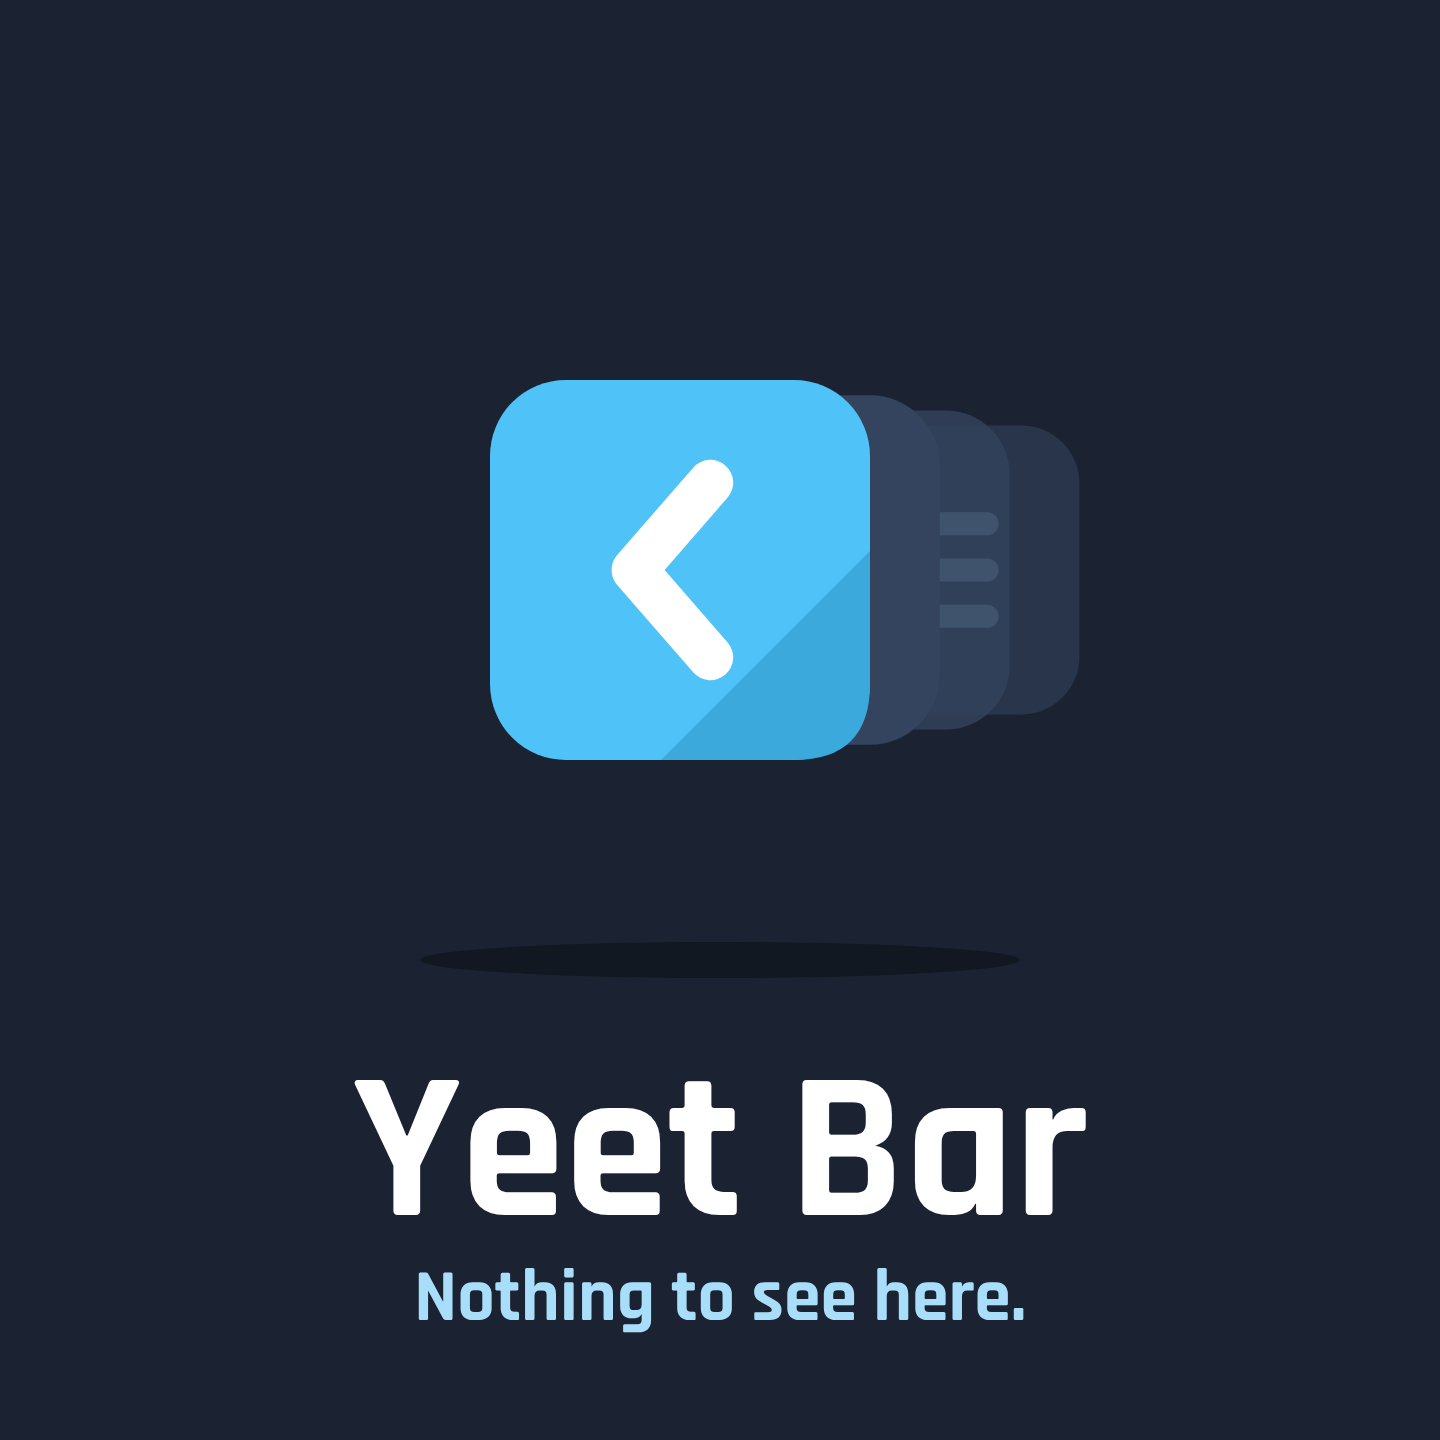
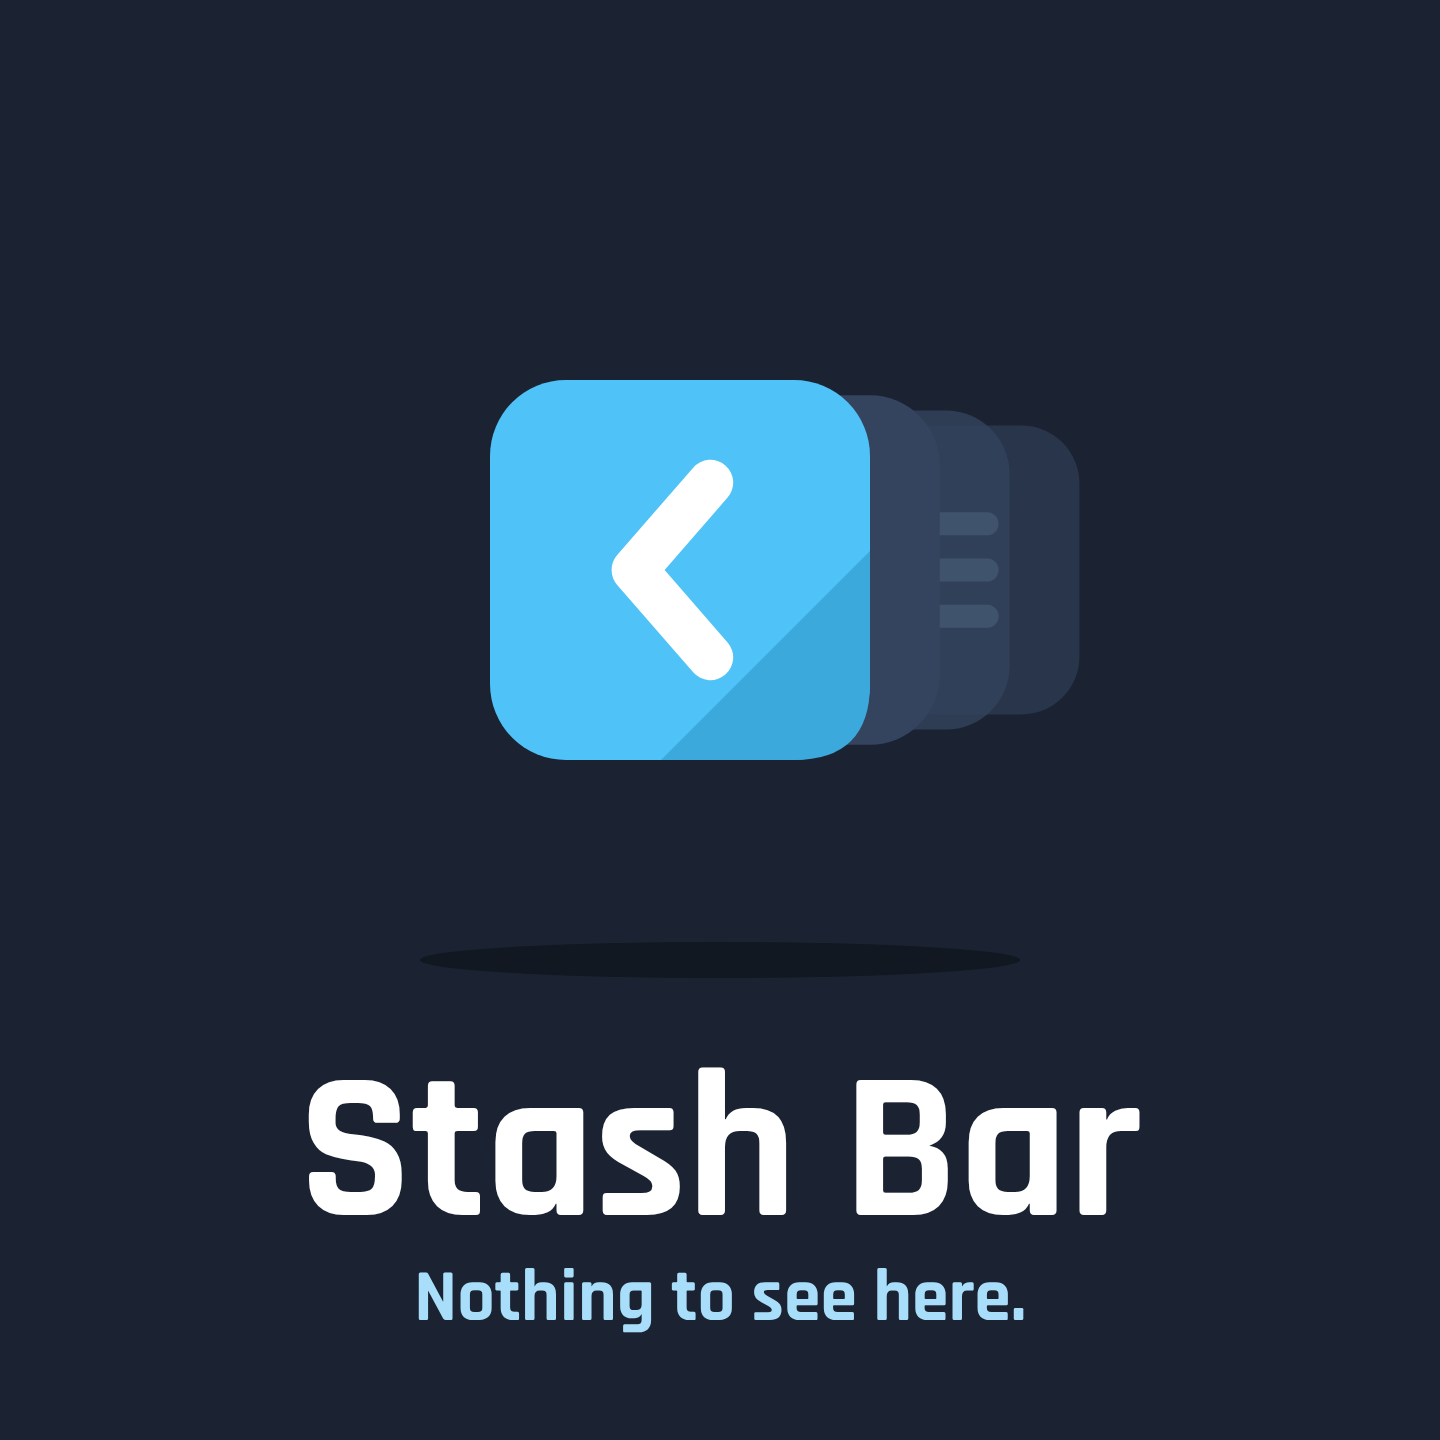
Rename to Stash Bar (1.0.1)

Changed region(s): [[0.2188, 0.7188, 0.8125, 0.8438]]

diff --git a/UI/src/mods/collapse/bindings.ts b/UI/src/mods/collapse/bindings.ts
@@ -12,15 +12,15 @@ export const collapsed$ = {
     topRight: bindValue<boolean>(GROUP, "collapsedTopRight", false),
 };
 
-// Options > Yeet Bar: which corners get an arrow at all.
+// Options > Stash Bar: which corners get an arrow at all.
 export const enabled$ = {
     topLeft: bindValue<boolean>(GROUP, "tidyTopLeft", true),
     topRight: bindValue<boolean>(GROUP, "tidyTopRight", false),
 };
 
-// Options > Yeet Bar > Slide animation.
+// Options > Stash Bar > Slide animation.
 export const animate$ = bindValue<boolean>(GROUP, "animate", true);
-// Options > Yeet Bar > Slide speed, in milliseconds (250, 500 or 1000).
+// Options > Stash Bar > Slide speed, in milliseconds (250, 500 or 1000).
 export const slideMs$ = bindValue<number>(GROUP, "slideMs", 500);
 
 export const setCollapsed = (area: AreaId, value: boolean) => trigger(GROUP, "setAreaCollapsed", area, value);

diff --git a/UI/src/mods/collapse/row-slide.ts b/UI/src/mods/collapse/row-slide.ts
@@ -11,7 +11,7 @@
 // Everything here only changes how buttons look on screen. Nothing is saved, and
 // every change is undone when the row opens again, so other mods are left as they were.
 
-// How long a slide takes, from Options > Yeet Bar > Slide speed (0.25, 0.5 or 1 second).
+// How long a slide takes, from Options > Stash Bar > Slide speed (0.25, 0.5 or 1 second).
 // Shared by every area. The arrows' swivel uses the same time (see collapse-toggle.tsx).
 let slideMs = 500;
 let transition = transitionFor(slideMs);

diff --git a/UI/src/mods/collapse/areas.ts b/UI/src/mods/collapse/areas.ts
@@ -1,7 +1,7 @@
 import { AppendHookTargets } from "cs2/modding";
 import { Axis, Placement } from "./row-slide";
 
-// The corners Yeet Bar can tidy. Each is a row the game makes for mod buttons.
+// The corners Stash Bar can tidy. Each is a row the game makes for mod buttons.
 // Checked in the game's own UI code (Cities2_Data/Content/Game/UI/index.js), 2026-11-18.
 //
 // "gameClasses" are the starts of the style names of the game's own buttons that share

diff --git a/UI/src/index.tsx b/UI/src/index.tsx
@@ -4,7 +4,7 @@ import { arrowFor } from "mods/collapse/collapse-toggle";
 
 const register: ModRegistrar = (moduleRegistry) => {
     // One arrow per corner (top-left and top-right). Each shows only when switched on
-    // in Options > Yeet Bar. Nothing else on screen is touched.
+    // in Options > Stash Bar. Nothing else on screen is touched.
     for (const area of AREAS) moduleRegistry.append(area.slot, arrowFor(area));
 };
 

diff --git a/Localization/LocaleEN.cs b/Localization/LocaleEN.cs
@@ -23,7 +23,7 @@ namespace TopLeftCollapse.Localization
         {
             return new Dictionary<string, string>
             {
-                { m_Setting.GetSettingsLocaleID(), "Yeet Bar" },
+                { m_Setting.GetSettingsLocaleID(), "Stash Bar" },
                 { m_Setting.GetOptionLabelLocaleID(nameof(Setting.TidyTopLeft)), "Tidy top-left buttons" },
                 { m_Setting.GetOptionDescLocaleID(nameof(Setting.TidyTopLeft)),
                     "Adds an arrow next to the game's \"i\" button that slides the mod buttons in the top-left corner away." },
@@ -45,7 +45,7 @@ namespace TopLeftCollapse.Localization
                 { m_Setting.GetOptionGroupLocaleID(Setting.kKeybindGroup), "Keyboard shortcut" },
 
                 // Keyboard shortcut
-                { m_Setting.GetBindingMapLocaleID(), "Yeet Bar" },
+                { m_Setting.GetBindingMapLocaleID(), "Stash Bar" },
                 { m_Setting.GetBindingKeyLocaleID(Setting.kToggleActionName), "Collapse or expand the mod buttons" },
                 { m_Setting.GetOptionLabelLocaleID(nameof(Setting.ToggleKey)), "Collapse / expand" },
                 { m_Setting.GetOptionDescLocaleID(nameof(Setting.ToggleKey)),

diff --git a/README.md b/README.md
@@ -1,6 +1,6 @@
-# Yeet Bar
+# Stash Bar
 
-*Nothing to see here.* A Cities: Skylines II mod (internal ID `TopLeftCollapse`). It puts one
+*Nothing to see here.* A Cities: Skylines II mod (internal ID `TopLeftCollapse`, first published as Yeet Bar). It puts one
 arrow at the start of the top-left row of mod buttons, right after the game's own "i" button.
 
 - Click the arrow and the other mod buttons slide away behind it. Click again and they come back.
@@ -53,6 +53,7 @@ arrow at the start of the top-left row of mod buttons, right after the game's ow
 
 ## Publishing
 
-New mod, so no ModId yet. The logo is `Properties/Thumbnail.png` (keep store images under
-about 1.2 MB; `Thumbnail.svg` is its editable source). Publish once with **PublishNewMod**, put the new page number into `Properties/PublishConfiguration.xml`,
-then use **PublishNewVersion** for updates. It starts as Unlisted.
+Paradox Mods ID: **168095** (already in `Properties/PublishConfiguration.xml`). For updates, raise
+`ModVersion` there, add a ChangeLog entry, and publish with **PublishNewVersion**. Never use PublishNewMod again,
+it would make a second store page. The logo is `Properties/Thumbnail.png` (keep store images under
+about 1.2 MB; `Thumbnail.svg` is its editable source).

diff --git a/CHANGELOG.md b/CHANGELOG.md
@@ -1,6 +1,11 @@
 # Changelog
 
-## 1.0.0 (not yet published)
+## 1.0.1
+
+New name: **Yeet Bar** is now **Stash Bar**, with a new logo. Nothing else changed, and settings are kept
+(the hidden mod ID is still `TopLeftCollapse`).
+
+## 1.0.0 (published 2026-11-18)
 
 First release as **Yeet Bar**: one arrow button that slides the top-left mod buttons in and out.
 Optional top-right arrow, Alt + C shortcut and a slide speed option (0.25, 0.5 or 1 second).
